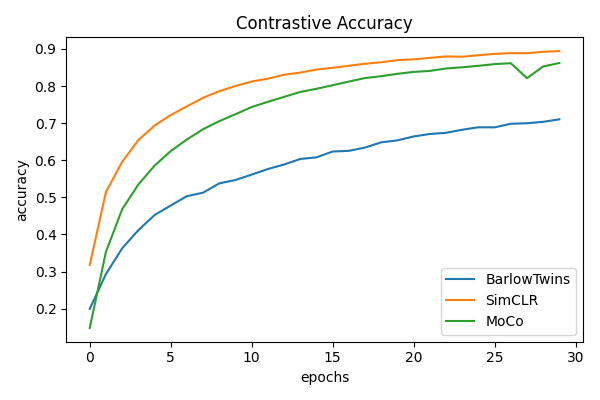
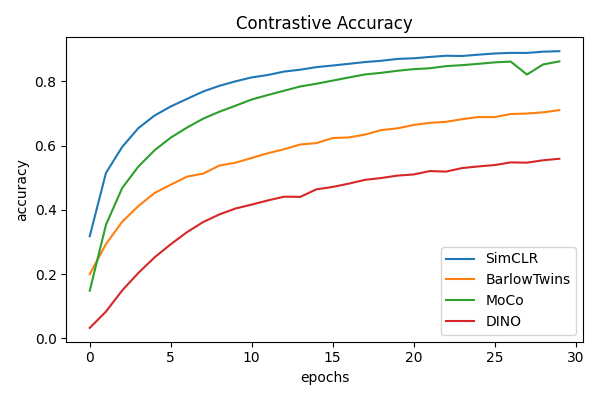
DINO added

diff --git a/algorithms.py b/algorithms.py
@@ -151,3 +151,59 @@ class MoCo(MomentumContrastiveModel):
             from_logits=True,
         )
         return loss
+
+
+class DINO(MomentumContrastiveModel):
+    def __init__(
+        self,
+        contrastive_augmenter,
+        classification_augmenter,
+        encoder,
+        projection_head,
+        linear_probe,
+        momentum_coeff,
+        temperature,
+        sharpening,
+    ):
+        super().__init__(
+            contrastive_augmenter,
+            classification_augmenter,
+            encoder,
+            projection_head,
+            linear_probe,
+            momentum_coeff,
+        )
+        self.temperature = temperature
+        self.sharpening = sharpening
+
+    def contrastive_loss(
+        self,
+        projections_1,
+        projections_2,
+        m_projections_1,
+        m_projections_2,
+    ):
+        # this loss does not use any negatives, needs centering + sharpening + momentum
+        # to avoid collapse
+        center = tf.reduce_mean(
+            tf.concat([m_projections_1, m_projections_2], axis=0), axis=0, keepdims=True
+        )
+        target_probabilities_1 = keras.activations.softmax(
+            (m_projections_1 - center) / (self.sharpening * self.temperature)
+        )
+        target_probabilities_2 = keras.activations.softmax(
+            (m_projections_2 - center) / (self.sharpening * self.temperature)
+        )
+
+        pred_probabilities_1 = keras.activations.softmax(
+            projections_1 / self.temperature
+        )
+        pred_probabilities_2 = keras.activations.softmax(
+            projections_2 / self.temperature
+        )
+
+        loss = keras.losses.categorical_crossentropy(
+            tf.concat([target_probabilities_1, target_probabilities_2], axis=0),
+            tf.concat([pred_probabilities_2, pred_probabilities_1], axis=0),
+        )
+        return loss

diff --git a/train.py b/train.py
@@ -10,7 +10,7 @@ from tensorflow.keras.layers.experimental import preprocessing
 
 from dataset import prepare_dataset
 from augmentations import RandomResizedCrop, RandomColorJitter
-from algorithms import SimCLR, BarlowTwins, MoCo
+from algorithms import SimCLR, BarlowTwins, MoCo, DINO
 
 tf.get_logger().setLevel("WARN")  # suppress info-level logs
 
@@ -18,18 +18,13 @@ tf.get_logger().setLevel("WARN")  # suppress info-level logs
 num_epochs = 30
 steps_per_epoch = 200
 width = 128
-momentum_coeff = 0.99
-temperature = 0.1
-redundancy_reduction_weight = 10.0
 
 # hyperparameters corresponding to each algorithm
 hyperparams = {
-    SimCLR: {"temperature": temperature},
-    BarlowTwins: {"redundancy_reduction_weight": redundancy_reduction_weight},
-    MoCo: {
-        "momentum_coeff": momentum_coeff,
-        "temperature": temperature,
-    },
+    SimCLR: {"temperature": 0.1},
+    BarlowTwins: {"redundancy_reduction_weight": 10.0},
+    MoCo: {"momentum_coeff": 0.99, "temperature": 0.1},
+    DINO: {"momentum_coeff": 0.8, "temperature": 0.1, "sharpening": 0.25},
 }
 
 # load STL10 dataset
@@ -38,7 +33,7 @@ batch_size, train_dataset, labeled_train_dataset, test_dataset = prepare_dataset
 )
 
 # select an algorithm
-Algorithm = SimCLR  # SimCLR, BarlowTwins, MoCo
+Algorithm = SimCLR  # SimCLR, BarlowTwins, MoCo, DINO
 
 # architecture
 model = Algorithm(

diff --git a/augmentations.py b/augmentations.py
@@ -63,7 +63,7 @@ class RandomResizedCrop(layers.Layer):
 
 # distorts the color distibutions of images
 class RandomColorJitter(layers.Layer):
-    def __init__(self, brightness=0, contrast=0, saturation=0, hue=0, **kwargs):
+    def __init__(self, brightness, contrast, saturation, hue, **kwargs):
         super().__init__(**kwargs)
 
         # color jitter ranges: (min jitter strength, max jitter strength)

diff --git a/README.md b/README.md
@@ -1,9 +1,12 @@
 # Self-supervised Contrastive Learning for Image Classification with Keras
 
-This repository contains an implementation for 3 self-supervised instance-level (image-level) contrastive learning methods:
+This repository contains an implementation for 4 self-supervised instance-level (image-level) contrastive learning methods:
 - [SimCLR](https://arxiv.org/abs/2002.05709)
 - [MoCo](https://arxiv.org/abs/1911.05722) ([v2](https://arxiv.org/abs/2003.04297), [v3](https://arxiv.org/abs/2104.02057))
 - [BarlowTwins](https://arxiv.org/abs/2103.03230)
+- [DINO](https://arxiv.org/abs/2104.14294)
+
+The image augmentation pipeline is a crucial component of all these methods. You can find implementations of other custom Keras image augmentation layers in [this repository](https://github.com/beresandras/image-augmentation-layers-keras).
 
 The codebase follows modern Tensorflow2 + Keras best practices and the implementation seeks to be as concise and readable as possible. The codebase is well commented, and has self-explanatory naming. This implementation is intended to be used as an easy-to-use baseline instead of as a line-by-line reproduction of the papers. 
 
